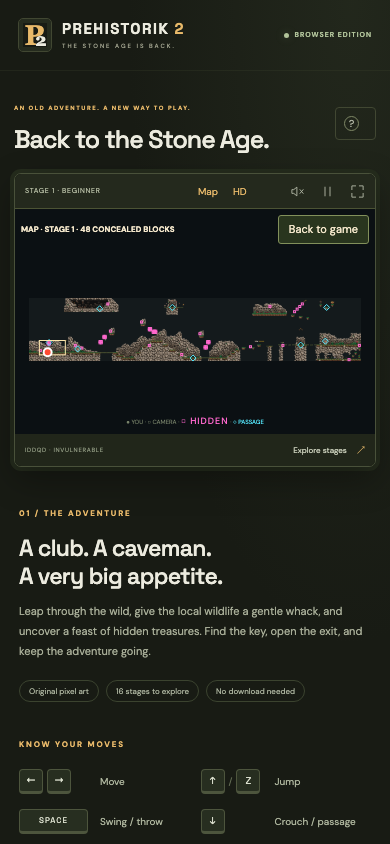
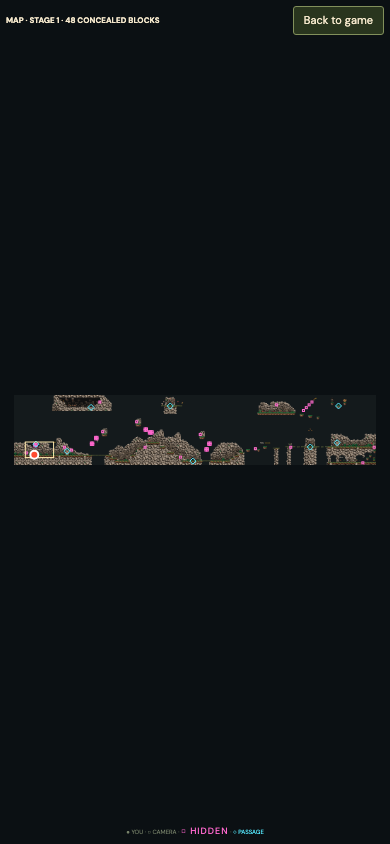
Fit MAP survey to the entire browser viewport

diff --git a/dist/style.css b/dist/style.css
@@ -7,4 +7,6 @@
 /* The graphics control is text-only and must remain visible on narrow screens. */
 #graphics-button span{display:inline}#graphics-button{min-width:42px;min-height:28px}#graphics-button[aria-pressed="true"]{color:var(--gold)}#graphics-button:disabled{opacity:.65}
 
-.level-map{position:absolute;inset:0;z-index:9;background:#0b1013;display:grid;grid-template-rows:auto minmax(0,1fr) auto;padding:12px;gap:8px;color:#f5e8cc}.level-map header{display:flex;justify-content:space-between;align-items:center;gap:10px;font-size:11px;letter-spacing:1px}.level-map button{background:#29351e;border:1px solid #82905b;border-radius:3px;padding:5px 10px;font-size:11px}.screen-wrap .level-map canvas,.screen-wrap:fullscreen .level-map canvas{width:100%;height:100%;max-height:none;min-height:0;object-fit:contain;image-rendering:auto;display:block}.level-map footer{padding:0;border:0;display:flex;gap:6px;flex-wrap:wrap;justify-content:space-between;font-size:8px}.level-map footer b{color:#ff68ce}.level-map footer i{color:#56eaff;font-style:normal}@media(max-width:560px){.level-map{padding:6px;gap:4px}.level-map header{font-size:8px;letter-spacing:0}.level-map footer{font-size:6px}}
+.level-map{position:fixed;inset:0;z-index:20;background:#0b1013;display:grid;grid-template-rows:auto minmax(0,1fr) auto;padding:12px;gap:8px;color:#f5e8cc}.level-map header{display:flex;justify-content:space-between;align-items:center;gap:10px;font-size:11px;letter-spacing:1px}.level-map button{background:#29351e;border:1px solid #82905b;border-radius:3px;padding:5px 10px;font-size:11px}.screen-wrap .level-map canvas,.screen-wrap:fullscreen .level-map canvas{width:100%;height:100%;max-height:none;min-height:0;object-fit:contain;image-rendering:auto;display:block}.level-map footer{padding:0;border:0;display:flex;gap:6px;flex-wrap:wrap;justify-content:space-between;font-size:8px}.level-map footer b{color:#ff68ce}.level-map footer i{color:#56eaff;font-style:normal}@media(max-width:560px){.level-map{padding:6px;gap:4px}.level-map header{font-size:8px;letter-spacing:0}.level-map footer{font-size:6px}}
+
+body.level-map-open{overflow:hidden}

diff --git a/dist/js/level-map.js b/dist/js/level-map.js
@@ -24,7 +24,7 @@ export class LevelMap {
   for(const o of [...s.platforms,...s.items,...s.enemies,...(w.bossParts||[]),s.player]){const id=(o.sprite??o.spriteId)&8191,m=a.game.sprites[id];if(!m)continue;include(o.x-m.originX,o.y+m.originY-m.height,m.width,m.height);const flip=o.face<0||!!(o.sprite&32768);c.save();c.translate(o.x,o.y);if(flip)c.scale(-1,1);c.drawImage(image('sprites',id,m.width,m.height,m.pixelOffset),-m.originX,m.originY-m.height);c.restore();}
   for(const p of [...s.secrets,...s.gates])include(p.x,p.y);include(s.camera.x,s.camera.y,320,176);s.bounds={x:Math.max(0,left),y:Math.max(0,top),width:Math.min(s.width,right)-Math.max(0,left),height:Math.min(s.height,bottom)-Math.max(0,top)};
   this.element.querySelector('strong').textContent=`MAP · STAGE ${w.level.id} · ${s.secrets.length} CONCEALED BLOCKS`;
-  this.element.hidden=false;this.draw();this.element.querySelector('button').focus({preventScroll:true});
+  document.body.classList.add('level-map-open');this.element.hidden=false;this.draw();this.element.querySelector('button').focus({preventScroll:true});
  }
  draw(){
   const box=this.canvas.getBoundingClientRect(),dpr=Math.min(2,devicePixelRatio||1),w=Math.max(1,Math.round(box.width*dpr)),h=Math.max(1,Math.round(box.height*dpr));this.canvas.width=w;this.canvas.height=h;const c=this.canvas.getContext('2d'),s=this.survey,b=s.bounds,scale=Math.min((w-16*dpr)/b.width,(h-16*dpr)/b.height),ox=(w-b.width*scale)/2-b.x*scale,oy=(h-b.height*scale)/2-b.y*scale;
@@ -34,5 +34,5 @@ export class LevelMap {
   c.strokeStyle='#ffe9ae';c.strokeRect(ox+s.camera.x*scale,oy+s.camera.y*scale,320*scale,176*scale);
   const x=ox+s.player.x*scale,y=oy+s.player.y*scale;c.beginPath();c.arc(x,y,4*dpr,0,Math.PI*2);c.fillStyle='#ff4b32';c.fill();c.lineWidth=2*dpr;c.strokeStyle='#fff';c.stroke();
  }
- close(){this.element.hidden=true;this.full=null;this.survey=null;}
+ close(){this.element.hidden=true;document.body.classList.remove('level-map-open');this.full=null;this.survey=null;}
 }

diff --git a/art/map-survey/README.md b/art/map-survey/README.md
@@ -1,6 +1,6 @@
 # MAP — read-only level survey
 
-Type `MAP` during play or press the toolbar Map button (also available while paused). The entire CURRENT level fits on one screen, including concealed replacement terrain, undiscovered items, offscreen enemies and active passages. Pink outlines identify hidden blocks; cyan diamonds are passages; a red/white dot marks the player and a rectangle the current camera. Front covers are omitted so hidden content is visible. Separate bonus worlds remain separate levels, each with its own map.
+Type `MAP` during play or press the toolbar Map button (also available while paused). The survey covers the browser viewport so the entire CURRENT level fits on one screen even when the game panel would extend below the fold, including concealed replacement terrain, undiscovered items, offscreen enemies and active passages. Pink outlines identify hidden blocks; cyan diamonds are passages; a red/white dot marks the player and a rectangle the current camera. Front covers are omitted so hidden content is visible. Separate bonus worlds remain separate levels, each with its own map.
 
 The survey reads a copy of the live map, applies active blocks' replacement IDs to that copy, and renders original indexed assets to its own canvas. It never calls World.step or alters discovery, timers, health, camera, RNG or persistence. Empty black padding is cropped for narrow stages, without hiding authored visible terrain/entities. Any fresh key closes it and is consumed through keyup, including repeated Space/arrow/function keys. A tap or Back button also closes it. Previous play/pause state and graphics mode are retained. Music selection is retained; the game simulation is paused. M alone still toggles sound after a short MAP-prefix recognition delay; F3 and the sound button remain immediate.
 
